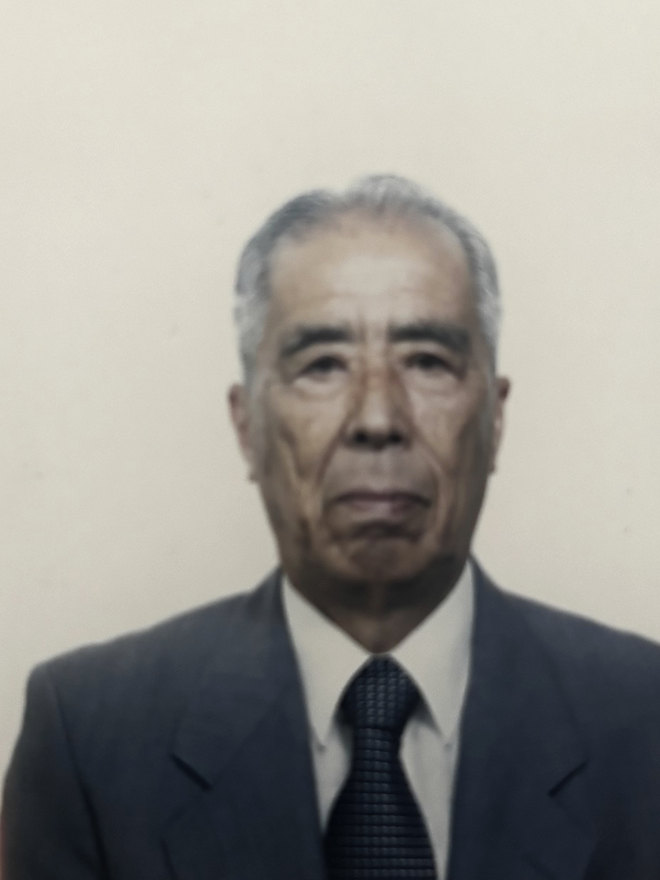
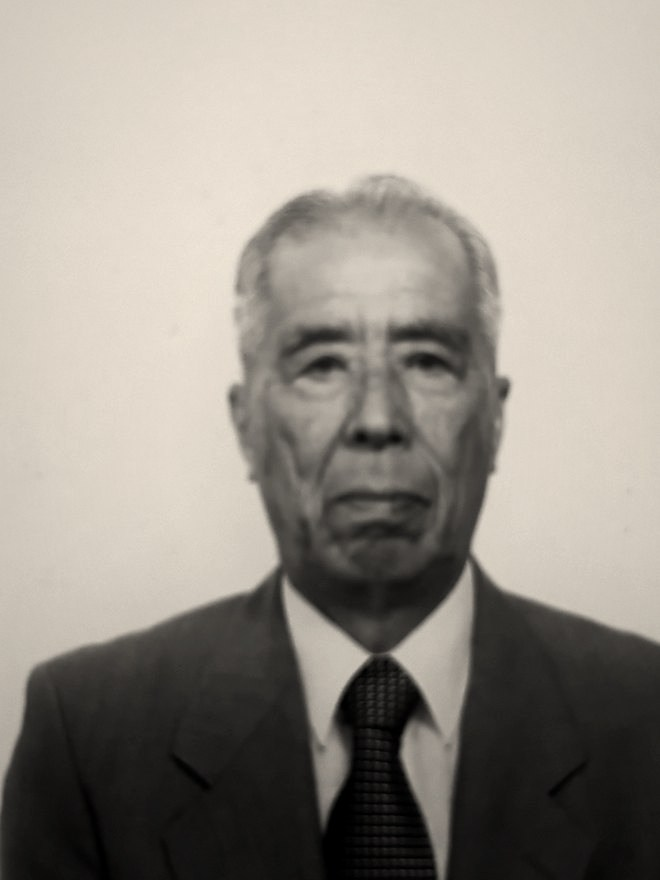
トップのコピー差し替え、対応エリア削除、沿革の整理、三代の写真を作り直し
- ヒーローの見出しを「AIに聞けぬ経費はプロに聞け！」に
- トップの「おもな対応エリア」の帯を削除。地名は構造化データの
  areaServed と本文に残るので検索向けの手がかりは消えない
- 沿革の年表を圧縮（初代10→7行、二代8→6行、三代7→6行）。
  軍歴と神田税務署、資格の取得年は残した
- .story を align-items:center にして、写真が本文の高さの
  真ん中に来るようにした
- 初代・二代・三代の写真を一揃いに作り直し。構図を取り直し、
  背景だけをぼかして落とし、調子を揃えて温かみのある単色に。
  人物そのものには手を加えていない
  - 二代：左のモニターと右の椅子を枠外へ。頭上の余白が無かったので
    木目を上に伸ばして補った
  - 三代：元の IMG_6778.heic（5712x4284）から取り直し
- daihyo.jpg の width/height を実寸 660x880 に訂正し、?v= を更新

diff --git a/office.html b/office.html
@@ -90,7 +90,7 @@
 
     <article class="story">
       <figure class="prof__fig story__fig" data-reveal>
-        <div class="prof__frame"><img src="assets/img/gen1.jpg?v=ebf10f3b" alt="初代 髙﨑静夫" width="660" height="880" loading="lazy"></div>
+        <div class="prof__frame"><img src="assets/img/gen1.jpg?v=d21130cf" alt="初代 髙﨑静夫" width="660" height="880" loading="lazy"></div>
         <figcaption class="prof__cap">初代 髙﨑 静夫</figcaption>
       </figure>
       <div data-reveal style="--i:1">
@@ -104,12 +104,9 @@
         <dl class="dl">
           <div><dt>1925</dt><dd>茨城県新治郡上大津村に生まれる</dd></div>
           <div><dt>1943</dt><dd>第一海軍航空廠 飛行機部組立工場に勤務</dd></div>
-          <div><dt>1945</dt><dd>陸軍へ入隊。宇都宮師管区歩兵第二補充隊を経て、歩兵第五百二十連隊 第二迫撃砲中隊に転属</dd></div>
+          <div><dt>1945</dt><dd>陸軍へ入隊。歩兵第五百二十連隊 第二迫撃砲中隊</dd></div>
           <div><dt>1946</dt><dd>現役満期、除隊</dd></div>
-          <div><dt>1949</dt><dd>大蔵省へ。以後、東京国税局の管内に勤務</dd></div>
-          <div><dt>1950</dt><dd>日本橋税務署 徴収課</dd></div>
-          <div><dt>1954</dt><dd>麹町税務署 徴収課</dd></div>
-          <div><dt>1955</dt><dd>墨田税務署 徴収課</dd></div>
+          <div><dt>1949</dt><dd>大蔵省へ。日本橋・麹町・墨田の各税務署 徴収課</dd></div>
           <div><dt>1958</dt><dd><b>神田税務署</b> 徴収課</dd></div>
           <div><dt>1973.6</dt><dd>税理士として独立し、神田に髙﨑会計事務所を開業</dd></div>
         </dl>
@@ -118,7 +115,7 @@
 
     <article class="story">
       <figure class="prof__fig story__fig" data-reveal>
-        <div class="prof__frame"><img src="assets/img/daihyo.jpg?v=93c72579" alt="二代 髙﨑英彦（税理士・行政書士）" width="720" height="960" loading="lazy"></div>
+        <div class="prof__frame"><img src="assets/img/daihyo.jpg?v=50b044d0" alt="二代 髙﨑英彦（税理士・行政書士）" width="660" height="880" loading="lazy"></div>
         <figcaption class="prof__cap">二代 髙﨑 英彦（税理士・行政書士）</figcaption>
       </figure>
       <div data-reveal style="--i:1">
@@ -131,11 +128,9 @@
         </p>
         <dl class="dl">
           <div><dt>1993.5</dt><dd>税理士登録（登録番号 076743）</dd></div>
-          <div><dt>1997</dt><dd>嘉悦女子短期大学 非常勤講師（〜2001年）</dd></div>
-          <div><dt>2001</dt><dd>嘉悦大学 非常勤講師</dd></div>
+          <div><dt>1997</dt><dd>嘉悦女子短期大学、のち嘉悦大学の非常勤講師</dd></div>
           <div><dt>2002</dt><dd>日本税理士会連合会「地方公共団体の外部監査制度」登録</dd></div>
-          <div><dt>2004.3</dt><dd>中央大学大学院 法学研究科『租税に関する訴訟の補佐人制度』修了</dd></div>
-          <div><dt>2004</dt><dd>『例解演習基本簿記』を共同編著（創成社）</dd></div>
+          <div><dt>2004</dt><dd>中央大学大学院 法学研究科『租税に関する訴訟の補佐人制度』修了。『例解演習基本簿記』共同編著（創成社）</dd></div>
           <div><dt>2011.2</dt><dd>行政書士登録</dd></div>
           <div><dt>2012.11</dt><dd>関東財務局・関東経済産業局より「経営革新等支援機関」に認定</dd></div>
         </dl>
@@ -144,7 +139,7 @@
 
     <article class="story">
       <figure class="prof__fig story__fig" data-reveal>
-        <div class="prof__frame"><img src="assets/img/gen3.jpg?v=b58c7c6d" alt="三代 髙﨑伸崇" width="660" height="880" loading="lazy"></div>
+        <div class="prof__frame"><img src="assets/img/gen3.jpg?v=134d14d7" alt="三代 髙﨑伸崇" width="660" height="880" loading="lazy"></div>
         <figcaption class="prof__cap">三代 髙﨑 伸崇</figcaption>
       </figure>
       <div data-reveal style="--i:1">
@@ -156,7 +151,6 @@
           税務・監査・金融の三方向から数字を見てきた目を、神田に持ち帰ります。
         </p>
         <dl class="dl">
-          <div><dt>2013</dt><dd>早稲田摂陵高等学校 卒業</dd></div>
           <div><dt>2017</dt><dd>関東学院大学 経済学部 卒業</dd></div>
           <div><dt>2020.3</dt><dd>明治大学 会計専門職大学院 税務専修 修了</dd></div>
           <div><dt>2020</dt><dd>アクタス税理士法人</dd></div>

diff --git a/index.html b/index.html
@@ -157,8 +157,8 @@
   <div class="hero__inner wrap">
     <p class="eyebrow">Takasaki Accounting Office — Since 1973</p>
     <h1 class="hero__title">
-      <span class="ln"><span style="--d:0">数字のむこうに、</span></span>
-      <span class="ln"><span style="--d:.14">経営者の顔がある。</span></span>
+      <span class="ln"><span style="--d:0">AIに聞けぬ経費は</span></span>
+      <span class="ln"><span style="--d:.14">プロに聞け！</span></span>
     </h1>
     <p class="hero__lead">
       毎月お伺いし、帳簿の数字を経営の言葉に置き換えてお話しする。<br class="brpc">
@@ -210,11 +210,6 @@
       <p class="lead mt-m" data-reveal>
         記帳から決算・申告、相続や事業承継まで。<br class="brpc">
         顧問先をお探しの方も、確定申告だけの方も、どうぞ。
-      </p>
-
-      <h3 class="prof__name mt-l" style="font-size:1.1rem">おもな対応エリア</h3>
-      <p class="mt-s" data-reveal style="--i:2">
-        <span class="pill">神田鍛冶町</span><span class="pill">内神田</span><span class="pill">外神田</span><span class="pill">神田小川町</span><span class="pill">神田須田町</span><span class="pill">神田多町</span><span class="pill">神田岩本町</span><span class="pill">神田錦町</span><span class="pill">神田淡路町</span><span class="pill">神田美土代町</span><span class="pill">大手町</span><span class="pill">丸の内</span><span class="pill">神保町</span><span class="pill">九段</span><span class="pill">秋葉原</span><span class="pill">日本橋</span><span class="pill">中央区</span><span class="pill">台東区</span><span class="pill">文京区</span>
       </p>
     </div>
   </div>
@@ -332,7 +327,7 @@
   <div class="wrap">
     <div class="prof">
       <figure class="prof__fig" data-reveal>
-        <div class="prof__frame"><img src="assets/img/daihyo.jpg?v=93c72579" alt="所長 髙﨑英彦（税理士・行政書士）" width="720" height="960"></div>
+        <div class="prof__frame"><img src="assets/img/daihyo.jpg?v=50b044d0" alt="所長 髙﨑英彦（税理士・行政書士）" width="660" height="880"></div>
         <figcaption class="prof__cap">所長 髙﨑 英彦（税理士・行政書士）</figcaption>
       </figure>
 

diff --git a/assets/css/style.css b/assets/css/style.css
@@ -1294,7 +1294,7 @@ body.nav-open .drawer__foot {
   display: grid;
   grid-template-columns: minmax(0, 300px) minmax(0, 1fr);
   gap: clamp(1.8rem, 5vw, 4rem);
-  align-items: start;
+  align-items: center;
   padding-block: clamp(2.5rem, 6vw, 4.5rem);
   border-top: 1px solid var(--line);
 }
